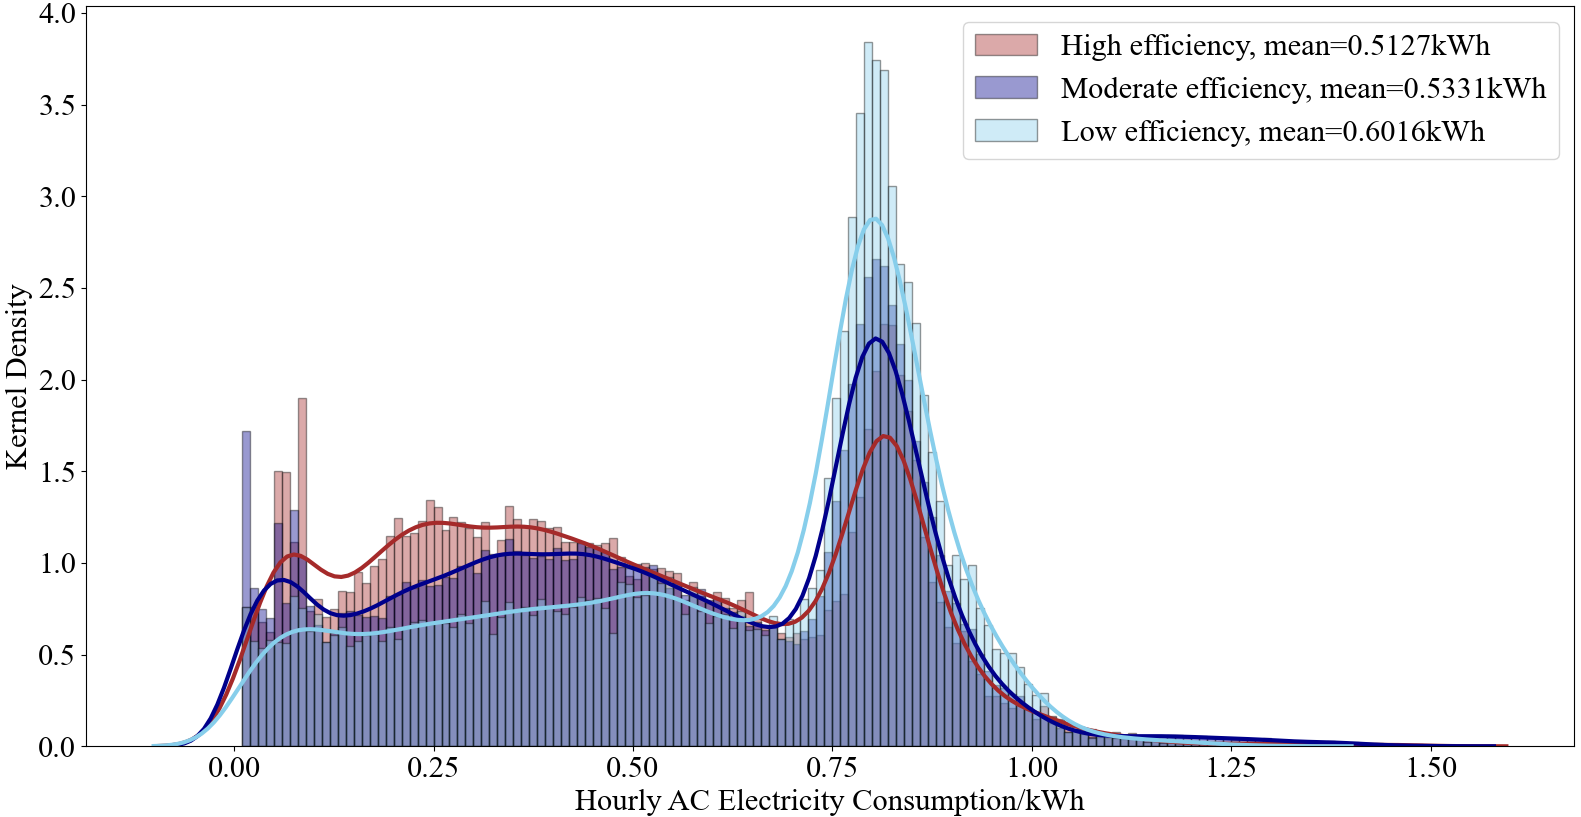
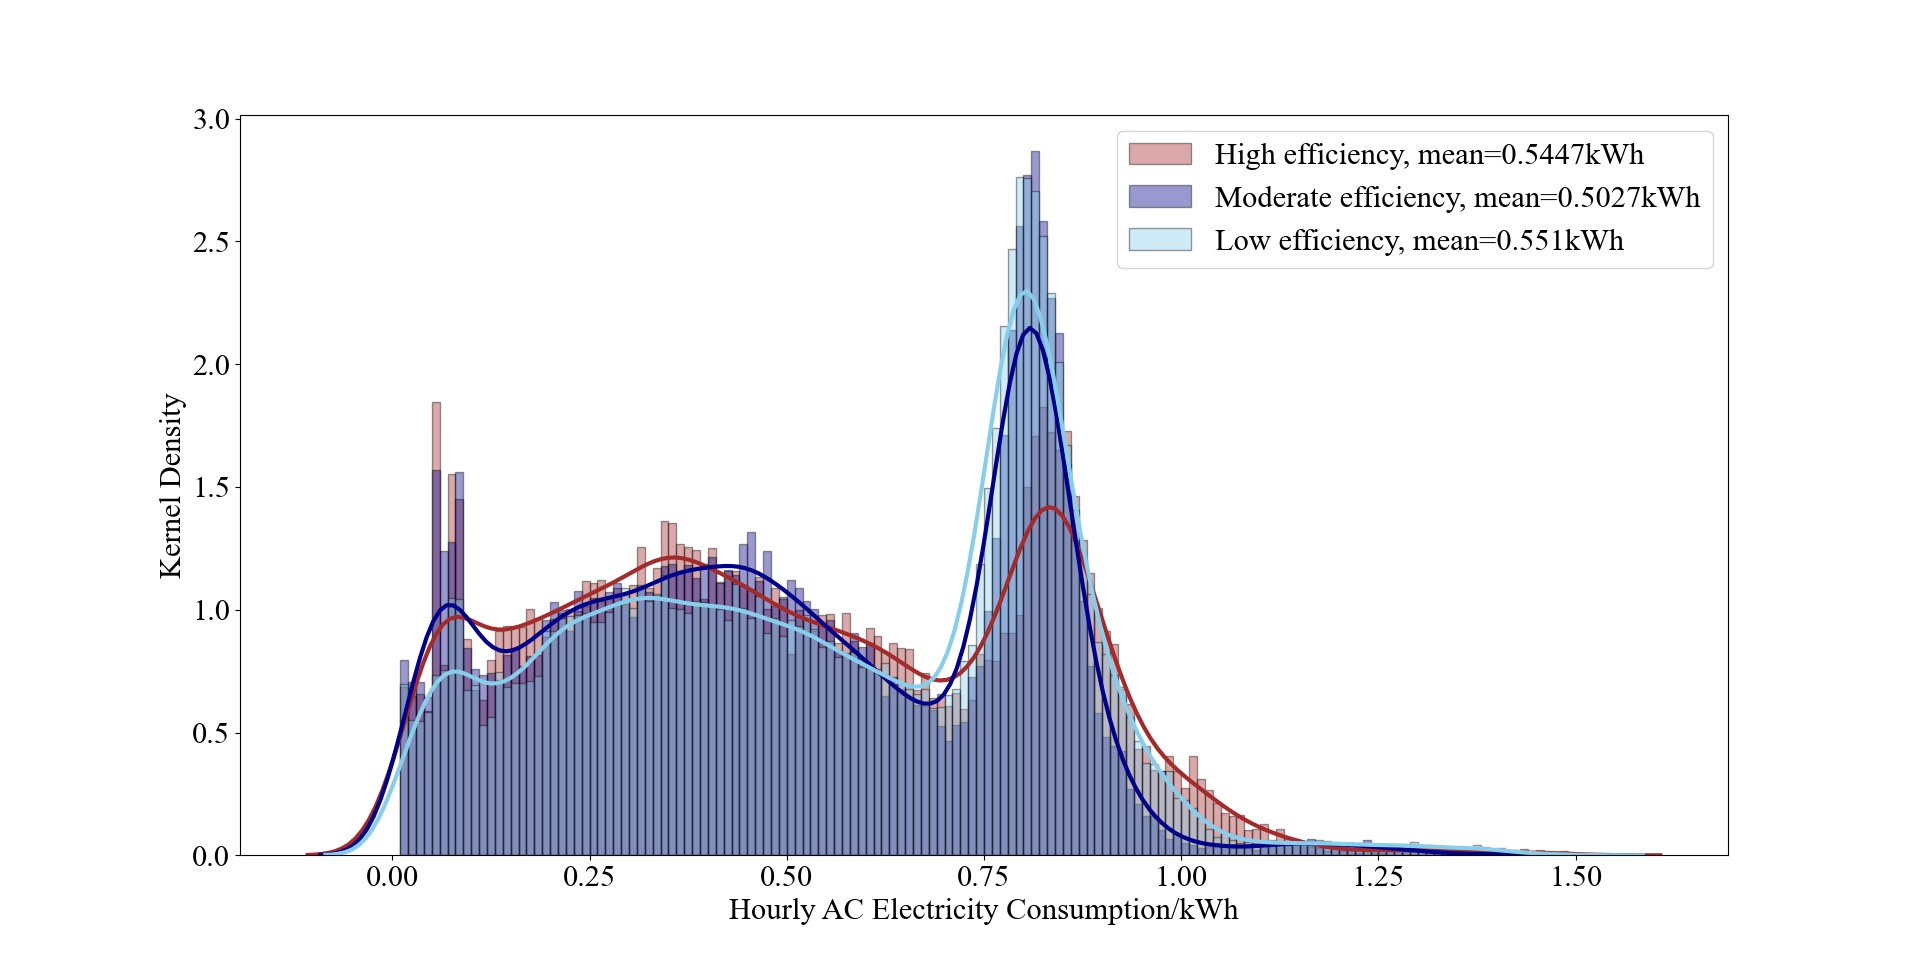
update room plot

diff --git a/room_comparison_plotting.py b/room_comparison_plotting.py
@@ -12,13 +12,13 @@ warnings.filterwarnings('ignore')
 data = pd.read_csv('./summer_data_compiled.csv')
 data = data[data.AC > 0]
 
+room_split = pd.read_csv('./room_classification.csv', index_col=None)
+
 # Read the List of all rooms and classify them into three efficient list by human observation
 room_list = data['Location'].unique()
-efficient_list = [306, 308, 310, 320, 330, 333, 601, 603, 606, 609, 612, 613, 620, 621, 630, 801, 808, 809, 916,
-                  813, 817, 818, 822, 913, 914, 915, 1002, 1003, 1010]
-inefficient_list = [301, 303, 304, 305, 307, 314, 315, 316, 317, 321, 327, 334, 602, 633, 635, 803, 805, 812, 820, 821,
-                    823, 826, 828, 829, 830, 832, 902, 904, 906, 908, 909, 910, 1009, 1011, 1013]
-moderate_list = [i for i in room_list if (i not in efficient_list and inefficient_list)]
+efficient_list = room_split[room_split['Room AC Status- Lu-20210521'] == 'High efficiency']['Room Number']
+moderate_list = room_split[room_split['Room AC Status- Lu-20210521'] == 'Moderate efficiency']['Room Number']
+inefficient_list = room_split[room_split['Room AC Status- Lu-20210521'] == 'Low efficiency']['Room Number']
 
 # create three dataframe list to store the dataframes
 high_list = [data[data.Location == i] for i in efficient_list]
@@ -58,3 +58,4 @@ plt.legend()
 plt.xlabel("Hourly AC Electricity Consumption/kWh")
 plt.ylabel("Kernel Density")
 plt.show()
+# plt.savefig('./demo/Room_dis.png', bbox_inches='tight')
